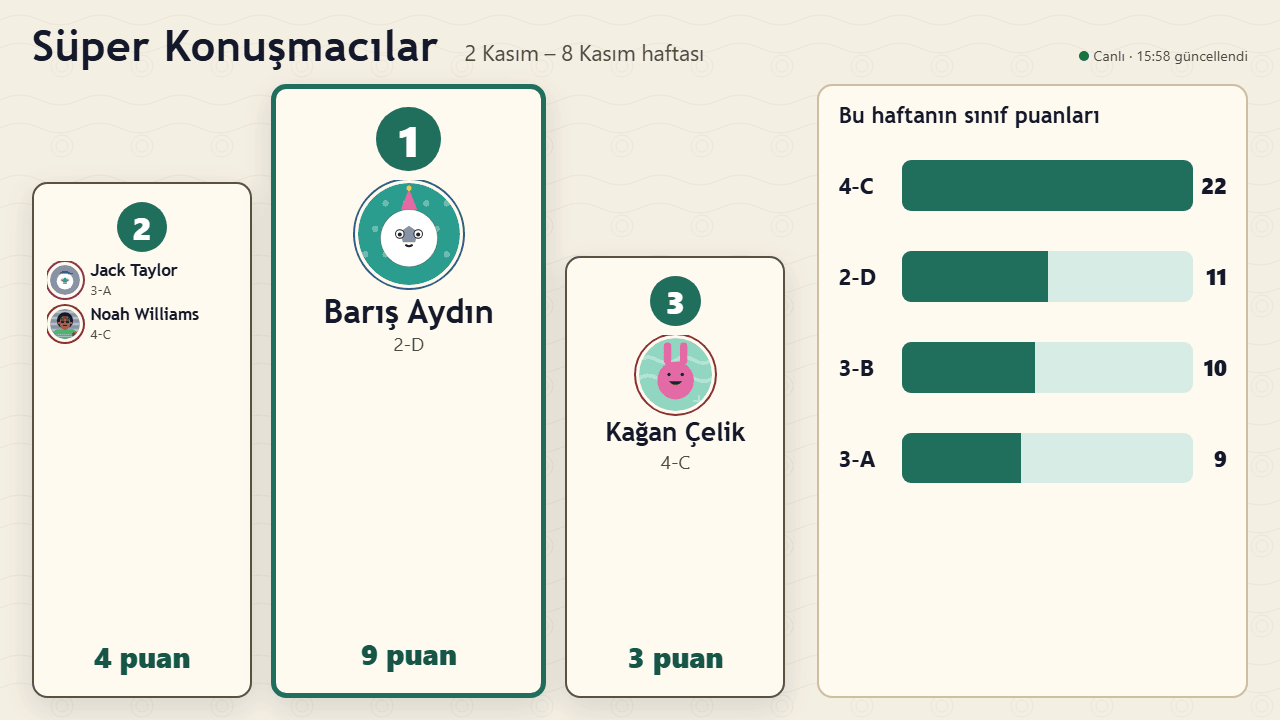
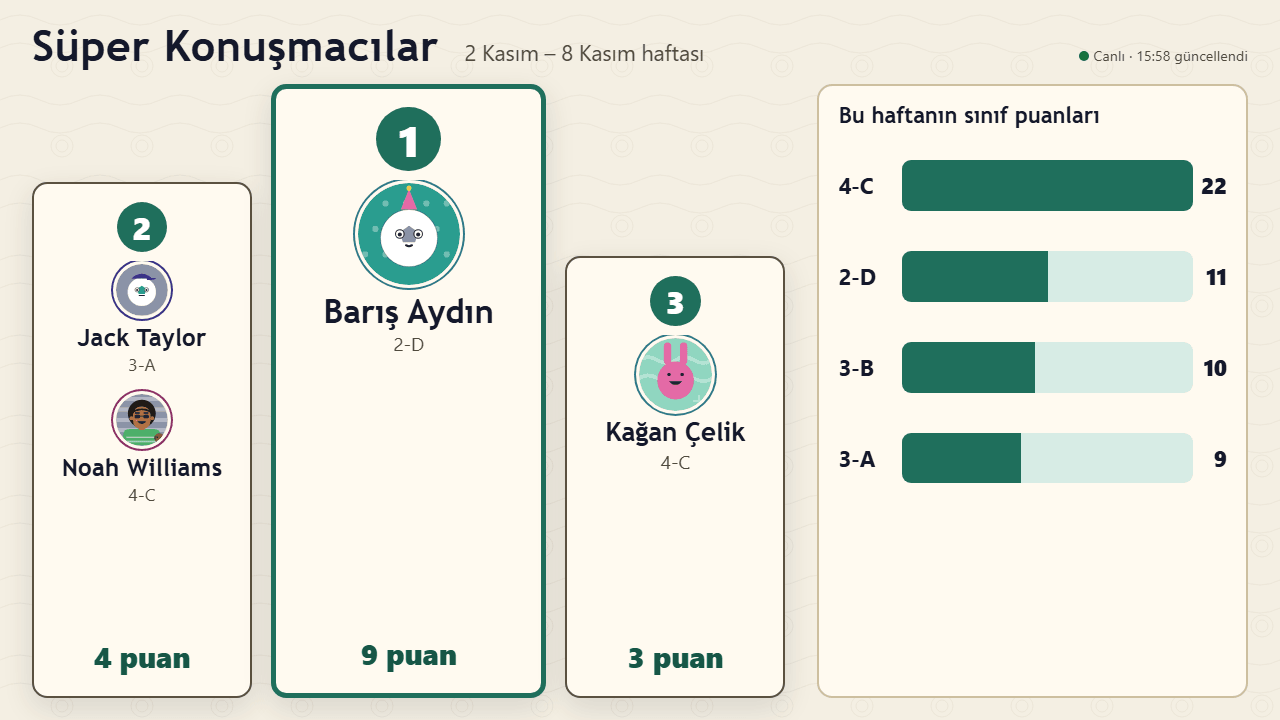
usability(superSpeakers): big two- and three-way ties, undo bar and search on phones, install chevrons
- Board: two or three tied students use a new 'few' layout (centred, avatar 8vh, name 3.4vh, class 2.4vh); the small list starts at four; the English placeholder headline is balanced
- Scorer: the Undo button never wraps and the message takes the rest of the bar; one clear X in the search field (native cancel button hidden); the class in "My points today" never breaks
- Up to eight class buttons wrap; more scroll sideways with a faded right edge
- Android / iPhone install sections are bordered rows with a chevron that turns when opened
- Guide pictures of the scorer end below a whole card; guides (EN+TR) and scorer/board screenshots updated
- D-141; unit test for place density, e2e for tie sizes, undo bar, chips and chevrons

Changed region(s): [[0.0312, 0.3667, 0.1875, 0.7028], [0.5, 0.55, 0.5312, 0.5806]]

diff --git a/e2e/super-speakers.spec.ts b/e2e/super-speakers.spec.ts
@@ -11,7 +11,7 @@
 import fs from 'node:fs';
 import os from 'node:os';
 import path from 'node:path';
-import { devices, expect, test, type Page } from '@playwright/test';
+import { devices, expect, test, type Locator, type Page } from '@playwright/test';
 import { api, login } from './helpers.ts';
 
 const clockFile = path.join(os.tmpdir(), `cc-e2e-clock-${process.env.E2E_PORT}`);
@@ -79,13 +79,23 @@ test('admin creates links; a phone scorer finds "isik", gives +1 and undoes; the
   await expect(phone).toHaveURL(/\/p$/u);
   await expect(phone.getByTestId('scorer-welcome')).toBeVisible();
   await expect(phone.getByTestId('scorer-install')).toBeVisible();
+  // The install sections show a chevron, so a closed one reads as something to open (usability audit).
+  for (const summary of await phone.getByTestId('scorer-install').locator('summary').all()) {
+    expect(await summary.evaluate((el) => getComputedStyle(el, '::before').content)).not.toBe('none');
+  }
   await phone.getByTestId('scorer-start').click();
+  // A few class buttons wrap instead of running off the right edge.
+  const chips = phone.locator('.cc-scorer__chips');
+  await expect(chips).toHaveAttribute('data-wrap', 'yes');
+  expect(await chips.evaluate((el) => el.scrollWidth <= el.clientWidth + 1)).toBe(true);
   await phone.getByTestId('scorer-search').fill('isik');
   const first = phone.getByTestId('scorer-results').getByTestId('scorer-student').first();
   await expect(first).toContainText(/Işık/u);
   const name = (await first.locator('.cc-scorer__name').innerText()).trim();
   await first.getByRole('button', { name: `Give ${name} one point` }).click();
   await expect(phone.getByTestId('scorer-undo-bar')).toContainText(`+1 for ${name}`);
+  // "Undo" stays on one line next to the message.
+  expect(await textLines(phone.getByTestId('scorer-undo'))).toBe(1);
 
   // Live on the board within a few seconds, without a reload.
   await expect(board.getByTestId('board-place-1')).toContainText(name, { timeout: 5_000 });
@@ -122,6 +132,15 @@ test('admin creates links; a phone scorer finds "isik", gives +1 and undoes; the
   await phoneCtx.close();
   await screenCtx.close();
 });
+
+/** How many lines the text of an element takes. */
+async function textLines(locator: Locator) {
+  return locator.evaluate((el) => {
+    const range = document.createRange();
+    range.selectNodeContents(el);
+    return new Set([...range.getClientRects()].filter((r) => r.width > 0).map((r) => Math.round(r.bottom))).size;
+  });
+}
 
 /** A synthetic board of a 1,500-student school (S12 review): 50 classes and a crowded first place. */
 function crowdedBoard() {
@@ -199,6 +218,42 @@ test('the board shows every tied student and 50 class totals without overlap at 
     expect(r.smallest).toBeGreaterThanOrEqual(6);
   }
   await expect(board.getByText(/more/u)).toHaveCount(0);
+  expect((await api(page, 'POST', `/api/admin/speakers/displays/${link.body.id}/revoke`)).status).toBe(200);
+  await ctx.close();
+});
+
+test('two students sharing a place keep big names and avatars on the board (usability audit)', async ({ page, browser }) => {
+  await login(page, 'admin');
+  const link = await api(page, 'POST', '/api/admin/speakers/displays', { label: `Tie screen ${Date.now().toString(36)}` });
+  expect(link.status).toBe(200);
+  const ctx = await browser.newContext({ viewport: { width: 1280, height: 720 } });
+  const board = await ctx.newPage();
+  const data = crowdedBoard();
+  const [crowd, five, one] = data.places as [(typeof data.places)[number], (typeof data.places)[number], (typeof data.places)[number]];
+  // 1st: one student; 2nd: two tied; 3rd: five tied.
+  data.places = [
+    { rank: 1, points: 3, students: one.students },
+    { rank: 2, points: 2, students: five.students.slice(0, 2) },
+    { rank: 3, points: 1, students: crowd.students.slice(0, 5) },
+  ];
+  data.classes = data.classes.slice(0, 6);
+  await board.route('**/api/board', (route) => route.fulfill({ status: 200, contentType: 'application/json', body: JSON.stringify(data) }));
+  await board.goto(link.body.url as string);
+  const second = board.getByTestId('board-place-2');
+  await expect(second).toHaveAttribute('data-density', 'few');
+  await expect(board.getByTestId('board-place-3')).toHaveAttribute('data-density', 'many');
+  for (const size of [
+    { width: 1280, height: 720 },
+    { width: 1920, height: 1080 },
+  ]) {
+    await board.setViewportSize(size);
+    await board.waitForTimeout(300);
+    expect(await fitsWithoutScrolling(board)).toBe(true);
+    expect((await boardLayoutProblems(board)).problems).toEqual([]);
+    // Names of a two-way tie are at least 3 % of the screen height (about 22 px at 720p), not 2.3 %.
+    const nameSize = await second.locator('.cc-board__name').first().evaluate((el) => parseFloat(getComputedStyle(el).fontSize));
+    expect(nameSize).toBeGreaterThanOrEqual(size.height * 0.03);
+  }
   expect((await api(page, 'POST', `/api/admin/speakers/displays/${link.body.id}/revoke`)).status).toBe(200);
   await ctx.close();
 });

diff --git a/src/client/styles/app.css b/src/client/styles/app.css
@@ -3716,14 +3716,34 @@ li > .cc-admin-list {
 }
 .cc-scorer__search-input {
   flex: 1;
+  min-width: 0;
   min-height: var(--cc-touch-big);
   font-size: 1.35rem;
+}
+/* The app has its own clear button next to the field: hide the browser's (one X, not two). */
+.cc-scorer__search-input::-webkit-search-cancel-button,
+.cc-scorer__search-input::-webkit-search-decoration {
+  -webkit-appearance: none;
+  appearance: none;
+  display: none;
 }
 .cc-scorer__chips {
   display: flex;
   gap: 0.4rem;
   overflow-x: auto;
   padding-bottom: 0.25rem;
+  scroll-padding-inline: 1rem;
+}
+/* A few classes wrap onto a second line; many classes scroll sideways, with the right edge fading
+   out so a cut-off chip reads as "there is more". */
+.cc-scorer__chips[data-wrap] {
+  flex-wrap: wrap;
+  overflow-x: visible;
+}
+.cc-scorer__chips:not([data-wrap]) {
+  padding-inline-end: 2rem;
+  /* A mask uses only the alpha: any opaque token works for the solid part. */
+  mask-image: linear-gradient(to right, var(--cc-text) calc(100% - 2.5rem), transparent);
 }
 .cc-scorer__chips .cc-btn {
   flex: none;
@@ -3785,6 +3805,14 @@ li > .cc-admin-list {
   font-weight: 700;
   z-index: 5;
 }
+.cc-scorer__undo > span {
+  flex: 1;
+  min-width: 0;
+}
+.cc-scorer__undo > .cc-btn {
+  flex: none;
+  white-space: nowrap;
+}
 .cc-scorer__today {
   list-style: none;
   margin: 0;
@@ -3797,6 +3825,9 @@ li > .cc-admin-list {
   flex: 1;
   min-width: 0;
   overflow-wrap: anywhere;
+}
+.cc-scorer__today-class {
+  white-space: nowrap;
 }
 .cc-scorer__today li[data-voided] .cc-scorer__today-name {
   color: var(--cc-text-muted);
@@ -3822,6 +3853,37 @@ li > .cc-admin-list {
   min-height: var(--cc-touch);
   display: flex;
   align-items: center;
+  gap: 0.5rem;
+  padding: 0.25rem 0.75rem;
+  border: var(--cc-border-width) solid var(--cc-border);
+  border-radius: var(--cc-radius-sm);
+  background: var(--cc-surface-2);
+  list-style: none;
+}
+.cc-scorer details > summary::-webkit-details-marker {
+  display: none;
+}
+/* A chevron shows the section opens and closes: pointing right when closed, down when open. */
+.cc-scorer details > summary::before {
+  content: '';
+  flex: none;
+  width: 0.55em;
+  height: 0.55em;
+  border-inline-end: 0.18em solid currentColor;
+  border-bottom: 0.18em solid currentColor;
+  transform: rotate(-45deg);
+  transition: transform 150ms ease-out;
+}
+.cc-scorer details[open] > summary::before {
+  transform: rotate(45deg);
+}
+.cc-scorer details[open] > summary {
+  margin-bottom: 0.75rem;
+}
+@media (prefers-reduced-motion: reduce) {
+  .cc-scorer details > summary::before {
+    transition: none;
+  }
 }
 .cc-install-steps {
   list-style: none;
@@ -4074,6 +4136,26 @@ html[data-cursor='off'] * {
 .cc-board__place[data-many] .cc-board__class {
   font-size: calc(1.8vh * var(--cc-fit));
 }
+/* Two or three tied: the names stay big and centred like a single winner's, one under the other,
+   so they are read from the back of the room (the fitting loop still shrinks them if needed). */
+.cc-board__place[data-density='few'] .cc-board__names {
+  align-items: center;
+  gap: calc(2vh * var(--cc-fit));
+}
+.cc-board__place[data-density='few'] .cc-board__student {
+  flex-direction: column;
+  text-align: center;
+  gap: calc(0.6vh * var(--cc-fit));
+}
+.cc-board__place[data-density='few'] .cc-board__student .cc-avatar {
+  --cc-avatar-size: calc(8vh * var(--cc-fit));
+}
+.cc-board__place[data-density='few'] .cc-board__name {
+  font-size: calc(3.4vh * var(--cc-fit));
+}
+.cc-board__place[data-density='few'] .cc-board__class {
+  font-size: calc(2.4vh * var(--cc-fit));
+}
 /* A crowded place (more than six tied): every name, flowing in rows of small chips. */
 .cc-board__place[data-density='crowd'] .cc-board__names {
   display: flex;
@@ -4126,6 +4208,7 @@ html[data-cursor='off'] * {
   font-weight: var(--cc-weight-display);
   font-size: 5vh;
   margin: 0 4vw;
+  text-wrap: balance;
 }
 .cc-board__classes {
   min-height: 0;

diff --git a/e2e/docs-screenshots.spec.ts b/e2e/docs-screenshots.spec.ts
@@ -32,7 +32,7 @@ async function save(lang: Locale, name: string, png: Buffer) {
  * `from`: scroll this element to the top first (teacher and admin pages: the page heading, so the
  * menu bar does not fill the picture). `clipTo`: photograph only this element.
  */
-async function shot(page: Page, lang: Locale, name: string, opts: { fullPage?: boolean; clipTo?: string; from?: string } = {}) {
+async function shot(page: Page, lang: Locale, name: string, opts: { fullPage?: boolean; clipTo?: string; from?: string; until?: string } = {}) {
   await page.waitForLoadState('networkidle').catch(() => undefined);
   await page.evaluate(() => document.fonts?.ready);
   // Short-lived messages (toasts) would cover the screen in a still picture.
@@ -41,9 +41,15 @@ async function shot(page: Page, lang: Locale, name: string, opts: { fullPage?: b
     await page.locator(opts.from).first().evaluate((el) => el.scrollIntoView({ block: 'start' }));
     await page.waitForTimeout(150);
   }
+  // `until`: the picture runs from the top of the page to just below that element, so it ends at a
+  // natural boundary (a whole card) instead of in the middle of one.
+  const until = opts.until ? await page.locator(opts.until).boundingBox() : null;
+  const width = page.viewportSize()?.width ?? 390;
   const buf = opts.clipTo
     ? await page.locator(opts.clipTo).first().screenshot({ animations: 'disabled', caret: 'hide' })
-    : await page.screenshot({ animations: 'disabled', caret: 'hide', fullPage: opts.fullPage ?? false });
+    : until
+      ? await page.screenshot({ animations: 'disabled', caret: 'hide', fullPage: true, clip: { x: 0, y: 0, width, height: Math.ceil(until.y + until.height + 6) } })
+      : await page.screenshot({ animations: 'disabled', caret: 'hide', fullPage: opts.fullPage ?? false });
   await save(lang, name, buf);
 }
 
@@ -249,13 +255,13 @@ for (const lang of ['en', 'tr'] as const) {
         const startBtn = page.getByTestId('scorer-start');
         await expect(startBtn.or(page.getByTestId('scorer-app'))).toBeVisible();
         if (await startBtn.isVisible()) {
-          await shot(page, lang, 'scorer-welcome');
+          await shot(page, lang, 'scorer-welcome', { until: '[data-testid="scorer-welcome"] > .cc-card >> nth=0' });
           await startBtn.click();
         }
         await expect(page.getByTestId('scorer-app')).toBeVisible();
         await page.getByTestId('scorer-search').fill('3a');
         await expect(page.getByTestId('scorer-results').locator('li').first()).toBeVisible();
-        await shot(page, lang, 'scorer-search');
+        await shot(page, lang, 'scorer-search', { until: '[data-testid="scorer-results"] > li >> nth=1' });
         await phone.close();
       }
       {

diff --git a/src/client/scorer/ScorerApp.tsx b/src/client/scorer/ScorerApp.tsx
@@ -288,6 +288,9 @@ interface UndoState {
   until: number;
 }
 
+/** Up to this many classes the class buttons wrap onto more lines; more scroll sideways. */
+export const CHIPS_WRAP_MAX = 8;
+
 function StudentCard({ s, onAward, hint }: { s: ScorerStudent; onAward: (s: ScorerStudent) => void; hint: boolean }) {
   const { t } = useI18n();
   return (
@@ -326,7 +329,7 @@ function AwardsToday({ today, onUndo, timezone }: { today: Today; onUndo: (a: Sc
             <li key={a.id} className="cc-row" data-voided={voided ? 'yes' : undefined} data-testid="scorer-today-row">
               <span className="cc-muted">{formatDate(a.occurredAt, locale, timezone, { hour: '2-digit', minute: '2-digit' })}</span>
               <span className="cc-scorer__today-name">
-                {voided ? <s>{a.fullName}</s> : a.fullName} <span className="cc-muted">{a.className}</span>
+                {voided ? <s>{a.fullName}</s> : a.fullName} <span className="cc-muted cc-scorer__today-class">{a.className}</span>
               </span>
               {voided ? (
                 <span className="cc-chip">{t('speakers.scorer.undone')}</span>
@@ -536,7 +539,7 @@ function Scorer({ me, installed, welcome, onLeave }: { me: ScorerMe; installed: 
         ) : null}
       </div>
       {students.data && students.data.classes.length > 1 ? (
-        <div className="cc-scorer__chips" role="group" aria-label={t('speakers.scorer.classes')}>
+        <div className="cc-scorer__chips" role="group" aria-label={t('speakers.scorer.classes')} data-wrap={students.data.classes.length <= CHIPS_WRAP_MAX ? 'yes' : undefined}>
           <Button size="small" variant={classId === null ? 'primary' : 'secondary'} aria-pressed={classId === null} onPress={() => setClassId(null)}>
             {t('speakers.scorer.allClasses')}
           </Button>

diff --git a/tests/client/super-speakers-layout.test.ts b/tests/client/super-speakers-layout.test.ts
@@ -1,0 +1,26 @@
+/**
+ * Super Speakers layout rules (usability audit 2026-11): how a podium place lays out its tied names,
+ * and when the scorer's class buttons wrap instead of scrolling.
+ */
+import { describe, expect, it } from "vitest";
+import { placeDensity } from "../../src/client/board/BoardApp.tsx";
+import { CHIPS_WRAP_MAX } from "../../src/client/scorer/ScorerApp.tsx";
+
+describe("board place density", () => {
+  it("keeps two or three tied names big, lists four to six, and flows more as chips", () => {
+    expect(placeDensity(1)).toBeUndefined();
+    expect(placeDensity(2)).toBe("few");
+    expect(placeDensity(3)).toBe("few");
+    expect(placeDensity(4)).toBe("many");
+    expect(placeDensity(6)).toBe("many");
+    expect(placeDensity(7)).toBe("crowd");
+    expect(placeDensity(40)).toBe("crowd");
+  });
+});
+
+describe("scorer class buttons", () => {
+  it("wrap for a small school and scroll for a big one", () => {
+    expect(CHIPS_WRAP_MAX).toBeGreaterThanOrEqual(5);
+    expect(CHIPS_WRAP_MAX).toBeLessThan(12);
+  });
+});

diff --git a/src/client/board/BoardApp.tsx b/src/client/board/BoardApp.tsx
@@ -148,8 +148,11 @@ export function useFitText(ref: RefObject<HTMLElement | null>, key: string) {
   }, [ref, key]);
 }
 
-/** How a place lays out its names: one big card, a two-column list, or a compact flowing list. */
-export const placeDensity = (count: number) => (count <= 1 ? undefined : count <= 6 ? 'many' : 'crowd');
+/**
+ * How a place lays out its names: one big card; two or three names still big, one under the other
+ * ('few'); four to six in a list with small avatars ('many'); more in a compact flowing list ('crowd').
+ */
+export const placeDensity = (count: number) => (count <= 1 ? undefined : count <= 3 ? 'few' : count <= 6 ? 'many' : 'crowd');
 
 function PlaceCard({ place, slot, changed, waiting }: { place: BoardPlace | undefined; slot: 1 | 2 | 3; changed: boolean; waiting: string }) {
   const { t } = useI18n();

diff --git a/docs/DECISIONS.md b/docs/DECISIONS.md
@@ -532,3 +532,10 @@ Format: `D-NNN — date — decision — rationale — status`.
   - Report charts: self-assessment steps labelled 1–5 on the axis, no chart when every value is 0 (the table stays), charts capped at 60 mm in print.
   - Smaller: homework counts shown once while checking, "2 selected" on the counts line, the attendance chip in the check grid says "Attendance: …" and is hidden when attendance was not taken; assistant duty fields take the row width; goal fields "Ready-made goal" / "Goal text" / "Write my own (below)".
   - Decided by Claude from the November usability audit (teacher area).
+
+## Super Speakers usability fixes — 2026-11-08
+- **D-141** — **Super Speakers: big shared places, a scorer that fits a phone.**
+  - Board ties (revises D-133): two or three tied students use a new `few` layout, centred one under the other like a single winner (avatar 8vh, name 3.4vh, class 2.4vh, still shrunk by the fitting loop when needed); the small-avatar list starts at four and the chips at seven. The English placeholder headline is balanced over its lines.
+  - Scorer: the undo bar's button never wraps and the message takes the rest of the row (the page already keeps 7rem free under the list, so the last cards scroll clear of the bar); the browser's own search clear button is hidden (one X); the class next to a name in "My points today" never breaks; up to eight class buttons wrap onto more lines, more scroll sideways with a faded right edge; the Android / iPhone install sections are bordered rows with a chevron that turns when opened.
+  - Guide pictures of the scorer end below a whole card (docs screenshots `until` option).
+  - Decided by Claude from the November usability audit (Super Speakers area).

diff --git a/docs/guides/tr/scorer.md b/docs/guides/tr/scorer.md
@@ -12,7 +12,7 @@ Yöneticinizin gönderdiği bağlantıyı telefonunuzda açın (ya da QR kodunu 
 
 ## 2. Uygulamayı ana ekranınıza ekleyin (önerilir)
 
-Böylece bağlantı zayıfken bile tek dokunuşla puan verebilirsiniz. Alttaki **Uygulamayı ana ekranınıza ekleyin** bölümünü açın (karşılama sayfasında zaten açıktır):
+Böylece bağlantı zayıfken bile tek dokunuşla puan verebilirsiniz. Alttaki **Uygulamayı ana ekranınıza ekleyin** bölümünü açın (karşılama sayfasında zaten açıktır). Telefonunuzun bölümü açıktır; diğerinin adımları için okun olduğu başlığa dokunun:
 
 - **Android (Chrome)**: sağ üstteki menü düğmesine (üç nokta) dokunun, "Uygulamayı yükle" ya da "Ana ekrana ekle"yi seçin, sonra Süper Konuşmacılar'ı ana ekranınızdan açın. Oturum kendiliğinden açılır.
 - **iPhone ve iPad (Safari)**: Safari'nin altındaki Paylaş düğmesine dokunun, "Ana Ekrana Ekle"yi, ardından **Ekle**'yi seçin. iPhone'daki uygulama ilk açılışta bir **eşleştirme kodu** ister: Safari'de, bağlantı sayfanızda **Eşleştirme kodunu göster**'e dokunun; uygulamayı ana ekrandan açın ve altı rakamı **Uygulamayı bağlayın** bölümüne yazın. Bir kod yalnızca bir kez ve 10 dakika boyunca çalışır; süresi dolduysa **Yeni kod oluştur**'a basın.

diff --git a/docs/guides/en/scorer.md b/docs/guides/en/scorer.md
@@ -12,7 +12,7 @@ Open the link your administrator sent you (or scan its QR code) on your phone. T
 
 ## 2. Put the app on your home screen (recommended)
 
-Then you can give points with one tap, even when the connection is weak. Press **Put the app on your home screen** at the bottom (on the welcome page it is already open):
+Then you can give points with one tap, even when the connection is weak. Press **Put the app on your home screen** at the bottom (on the welcome page it is already open). The section for your phone is open; tap the other heading (with the arrow) to open its steps:
 
 - **Android (Chrome)**: tap the menu button (three dots) at the top right, choose **Install app** or **Add to Home screen**, then open Super Speakers from your home screen. It signs in by itself.
 - **iPhone and iPad (Safari)**: tap the **Share** button at the bottom of Safari, choose **Add to Home Screen**, then **Add**. The app on an iPhone needs a **pairing code** the first time: in Safari, on your link page, tap **Show pairing code**; open the app from the home screen and type the six digits under **Connect the app**. A code works once, for 10 minutes; **Make a new code** if it ran out.

diff --git a/docs/guides/tr/board-screen.md b/docs/guides/tr/board-screen.md
@@ -21,7 +21,7 @@ Pano 1920×1080 ve 1280×720 ekranlara kaydırma gerekmeden sığar. Fare imleci
 ## Panoda neler görünür
 
 - Başlık ve **… haftası**. Her hafta, yöneticinin belirlediği zamanda (normalde Pazartesi 00:00) sıfırdan başlar; önceki haftalar geçmişte saklanır.
-- **Haftanın ilk üçü**: puanlarıyla 1.–3. sıralar. Puanı eşit olan öğrenciler aynı sırayı paylaşır. Henüz kimsenin puanı yokken panoda **Süper konuşmacılarımızı bekliyoruz** yazar.
+- **Haftanın ilk üçü**: puanlarıyla 1.–3. sıralar. Puanı eşit olan öğrenciler aynı sırayı paylaşır: iki ya da üç öğrenci neredeyse tek öğrenci kadar büyük, daha fazlası küçük adlarla bir liste hâlinde gösterilir. Henüz kimsenin puanı yokken panoda **Süper konuşmacılarımızı bekliyoruz** yazar.
 - **Bu haftanın sınıf puanları**: 0 puanlılar dâhil katılan bütün sınıflar.
 - Bağlantı işareti: **Canlı** ya da ağ koptuğunda **Yeniden bağlanıyor…**. Pano kendiliğinden yeniden dener ve bağlantı gelince güncellenir; sayfayı yenilemeniz gerekmez.
 

diff --git a/docs/guides/en/board-screen.md b/docs/guides/en/board-screen.md
@@ -21,7 +21,7 @@ The board fits 1920×1080 and 1280×720 screens without scrolling. The mouse poi
 ## What the board shows
 
 - The title and **Week of …**. Every week starts fresh at the time the administrator set (normally Monday 00:00); earlier weeks are kept in the history.
-- **Top three of the week**: places 1 to 3, with points. Students with the same points share a place. While nobody has points, the board says **We are waiting for our super speakers**.
+- **Top three of the week**: places 1 to 3, with points. Students with the same points share a place: two or three are shown almost as big as a single student, more in a list with smaller names. While nobody has points, the board says **We are waiting for our super speakers**.
 - **Class points this week**: every class taking part, including classes with 0 points.
 - A connection sign: **Live**, or **Reconnecting…** when the network drops. The board keeps trying by itself and catches up when the connection is back; you do not need to reload it.
 
